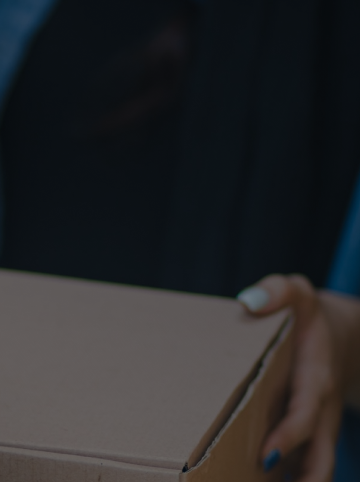
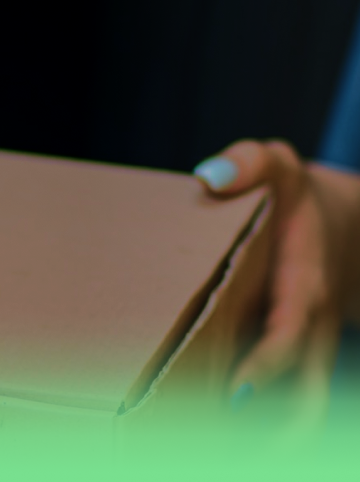
Test hero images with green bottom

diff --git a/src/components/home/hero/index.tsx b/src/components/home/hero/index.tsx
@@ -22,7 +22,7 @@ const Hero: React.FC = () => {
     <Section
       position="relative" 
       id="hero"
-      bgColor="black"
+      bgColor="primary"
       h={["auto", null, null, "560px", "560px", "600px"]} 
     >
       <Container 
